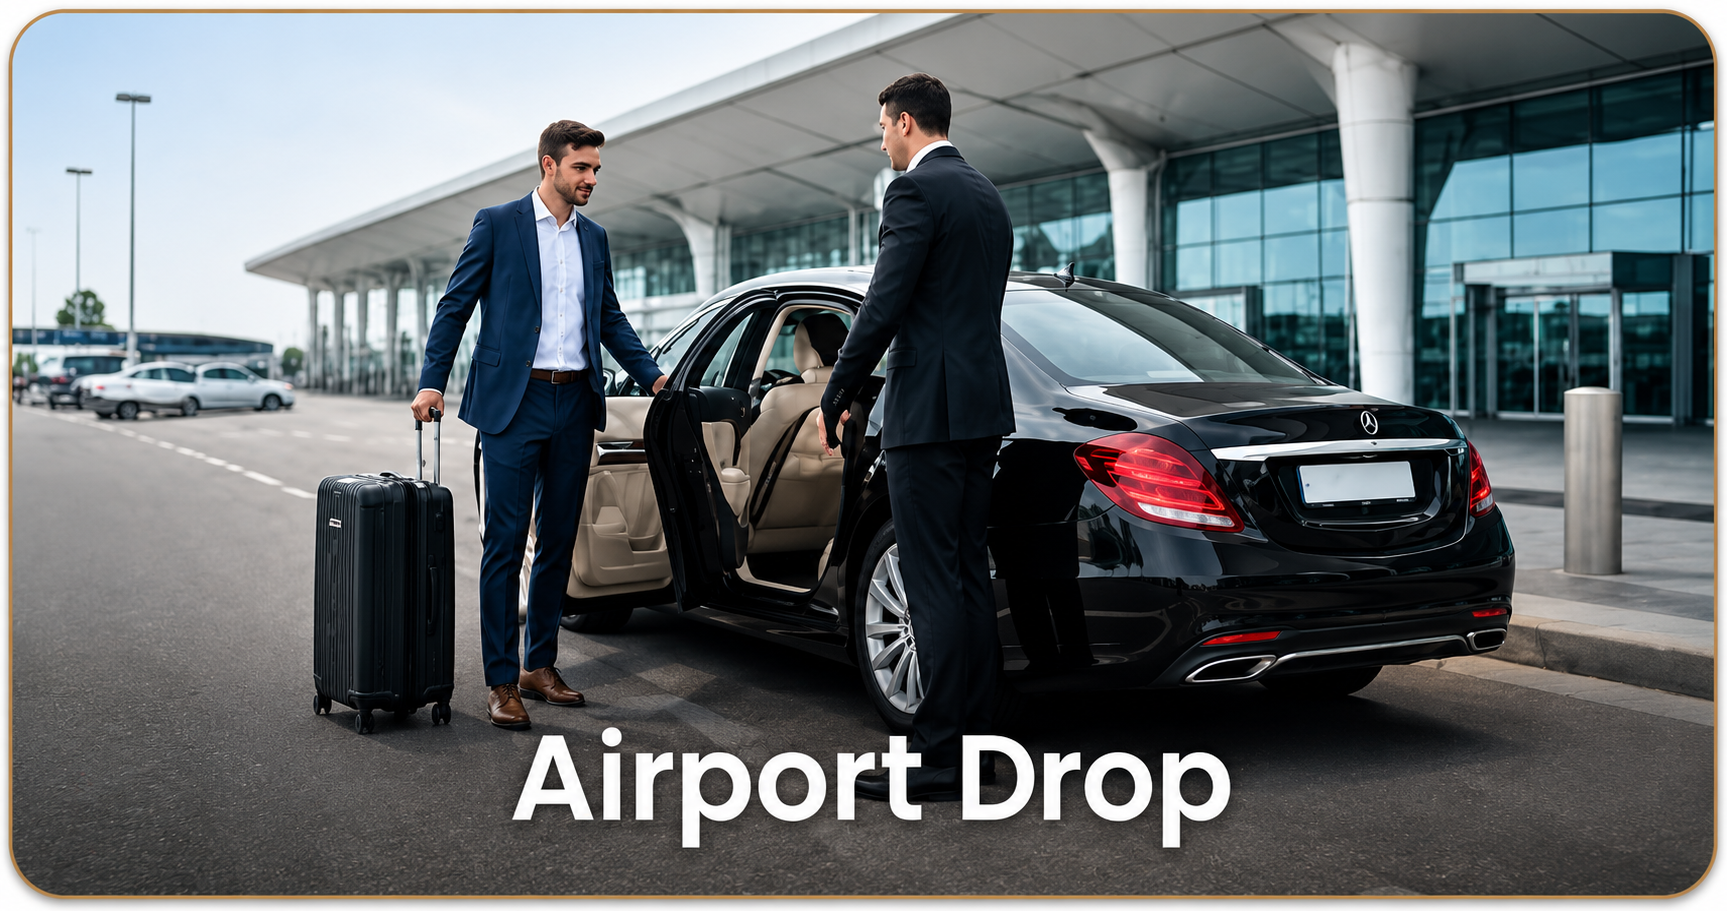
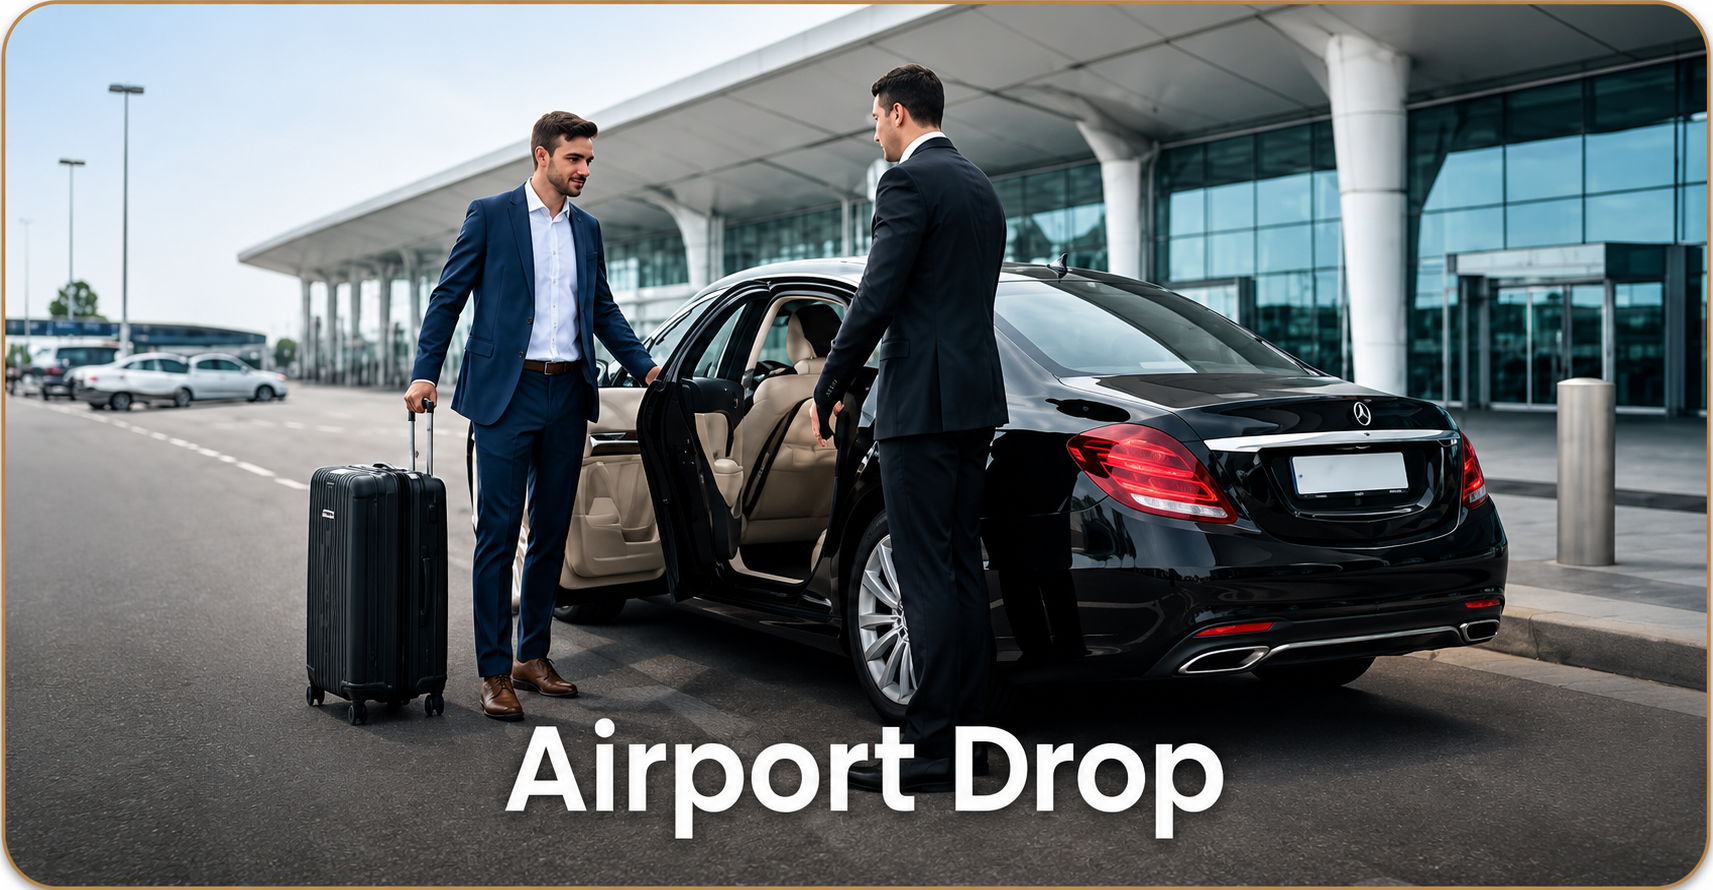
Update the whole website

diff --git a/Satya Tourists Corporate Cabs.dc.html b/Satya Tourists Corporate Cabs.dc.html
@@ -136,9 +136,8 @@
   </sc-if>
 </header>
 
-<section id="top" data-screen-label="Page banner" style="position:relative;background:linear-gradient(180deg,rgba(15,16,20,0.72),rgba(15,16,20,0.8)),url('images/corporate-transport.png');background-size:cover;background-position:center 45%;padding:clamp(56px,7vw,90px) clamp(18px,2.2vw,32px) clamp(44px,5.5vw,70px);text-align:center">
+<section id="top" data-screen-label="Page banner" style="position:relative;background:linear-gradient(180deg,rgba(15,16,20,0.72),rgba(15,16,20,0.8)),url('images/corporate-transport.png');background-size:cover;background-position:center 45%;padding:clamp(110px,13vw,170px) clamp(18px,2.2vw,32px) clamp(95px,11vw,145px);text-align:center">
   <h1 style="font-family:'Poppins',sans-serif;color:#fff;font-size:clamp(28px,4vw,46px);font-weight:800;margin-bottom:14px">Corporate Cabs Rental</h1>
-  <p style="color:#e9ddc8;font-size:14.5px;font-weight:600"><a href="index.html" style="color:#fff">Home</a> &nbsp;/&nbsp; Corporate Cabs</p>
 </section>
 
 <section data-screen-label="Corporate fleet" style="background:linear-gradient(180deg,#EAF4FF 0%,#EFF8F1 100%);padding:clamp(44px,5.5vw,64px) clamp(18px,2.2vw,32px) clamp(48px,6vw,72px)">

diff --git a/Satya Tourists Airport Taxi.dc.html b/Satya Tourists Airport Taxi.dc.html
@@ -146,9 +146,8 @@
   </sc-if>
 </header>
 
-<section id="top" data-screen-label="Page banner" style="position:relative;background:linear-gradient(180deg,rgba(15,16,20,0.72),rgba(15,16,20,0.8)),url('images/airport.png');background-size:cover;background-position:center 40%;padding:clamp(56px,7vw,90px) clamp(18px,2.2vw,32px) clamp(44px,5.5vw,70px);text-align:center">
+<section id="top" data-screen-label="Page banner" style="position:relative;background:linear-gradient(180deg,rgba(15,16,20,0.72),rgba(15,16,20,0.8)),url('images/airport.png');background-size:cover;background-position:center 40%;padding:clamp(110px,13vw,170px) clamp(18px,2.2vw,32px) clamp(95px,11vw,145px);text-align:center">
   <h1 style="font-family:'Poppins',sans-serif;color:#fff;font-size:clamp(28px,4vw,46px);font-weight:800;margin-bottom:14px">Airport Taxi Service in Bengaluru</h1>
-  <p style="color:#e9ddc8;font-size:14.5px;font-weight:600"><a href="index.html" style="color:#fff">Home</a> &nbsp;/&nbsp; Airport Taxi</p>
 </section>
 
 <section data-screen-label="Airport packages" style="background:linear-gradient(180deg,#EAF4FF 0%,#EFF8F1 100%);padding:clamp(44px,5.5vw,64px) clamp(18px,2.2vw,32px) clamp(48px,6vw,72px)">

diff --git a/Satya Tourists Local Taxi.dc.html b/Satya Tourists Local Taxi.dc.html
@@ -146,9 +146,8 @@
   </sc-if>
 </header>
 
-<section id="top" data-screen-label="Page banner" style="position:relative;background:linear-gradient(180deg,rgba(15,16,20,0.72),rgba(15,16,20,0.8)),url('images/local.png');background-size:cover;background-position:center 40%;padding:clamp(56px,7vw,90px) clamp(18px,2.2vw,32px) clamp(44px,5.5vw,70px);text-align:center">
+<section id="top" data-screen-label="Page banner" style="position:relative;background:linear-gradient(180deg,rgba(15,16,20,0.72),rgba(15,16,20,0.8)),url('images/local.png');background-size:cover;background-position:center 40%;padding:clamp(110px,13vw,170px) clamp(18px,2.2vw,32px) clamp(95px,11vw,145px);text-align:center">
   <h1 style="font-family:'Poppins',sans-serif;color:#fff;font-size:clamp(28px,4vw,46px);font-weight:800;margin-bottom:14px">Local Taxi Service in Bengaluru</h1>
-  <p style="color:#e9ddc8;font-size:14.5px;font-weight:600"><a href="index.html" style="color:#fff">Home</a> &nbsp;/&nbsp; Local Taxi</p>
 </section>
 
 <section data-screen-label="Local packages" style="background:linear-gradient(180deg,#EAF4FF 0%,#EFF8F1 100%);padding:clamp(44px,5.5vw,64px) clamp(18px,2.2vw,32px) clamp(48px,6vw,72px)">

diff --git a/Satya Tourists Outstation.dc.html b/Satya Tourists Outstation.dc.html
@@ -137,9 +137,8 @@
   </sc-if>
 </header>
 
-<section id="top" data-screen-label="Page banner" style="position:relative;background:linear-gradient(180deg,rgba(15,16,20,0.72),rgba(15,16,20,0.8)),url('images/outstation.png');background-size:cover;background-position:center 40%;padding:clamp(56px,7vw,90px) clamp(18px,2.2vw,32px) clamp(44px,5.5vw,70px);text-align:center">
+<section id="top" data-screen-label="Page banner" style="position:relative;background:linear-gradient(180deg,rgba(15,16,20,0.72),rgba(15,16,20,0.8)),url('images/outstation.png');background-size:cover;background-position:center 40%;padding:clamp(110px,13vw,170px) clamp(18px,2.2vw,32px) clamp(95px,11vw,145px);text-align:center">
   <h1 style="font-family:'Poppins',sans-serif;color:#fff;font-size:clamp(28px,4vw,46px);font-weight:800;margin-bottom:14px">Outstation Taxi Service in Bengaluru</h1>
-  <p style="color:#e9ddc8;font-size:14.5px;font-weight:600"><a href="index.html" style="color:#fff">Home</a> &nbsp;/&nbsp; Outstation Taxi</p>
 </section>
 
 <section data-screen-label="Intro" style="max-width:980px;margin:0 auto;padding:clamp(40px,5vw,60px) clamp(18px,2.2vw,32px) 20px;text-align:center">

diff --git a/Satya Tourists Contact.dc.html b/Satya Tourists Contact.dc.html
@@ -75,9 +75,8 @@
   </sc-if>
 </header>
 
-<section id="top" data-screen-label="Page banner" style="position:relative;background:linear-gradient(180deg,rgba(15,16,20,0.72),rgba(15,16,20,0.8)),url('images/hero.png');background-size:cover;background-position:center 40%;padding:clamp(56px,7vw,90px) clamp(18px,2.2vw,32px) clamp(44px,5.5vw,70px);text-align:center">
+<section id="top" data-screen-label="Page banner" style="position:relative;background:linear-gradient(180deg,rgba(15,16,20,0.72),rgba(15,16,20,0.8)),url('images/hero.png');background-size:cover;background-position:center 40%;padding:clamp(110px,13vw,170px) clamp(18px,2.2vw,32px) clamp(95px,11vw,145px);text-align:center">
   <h1 style="font-family:'Poppins',sans-serif;color:#fff;font-size:clamp(28px,4vw,46px);font-weight:800;margin-bottom:14px">Contact Satya Tourists</h1>
-  <p style="color:#e9ddc8;font-size:14.5px;font-weight:600"><a href="index.html" style="color:#fff">Home</a> &nbsp;/&nbsp; Contact</p>
 </section>
 
 <section data-screen-label="Contact details" style="max-width:1240px;margin:0 auto;padding:clamp(40px,5vw,60px) clamp(18px,2.2vw,32px) clamp(20px,2.5vw,30px)">

diff --git a/Satya Tourists Our Fleet.dc.html b/Satya Tourists Our Fleet.dc.html
@@ -148,9 +148,8 @@
   </sc-if>
 </header>
 
-<section id="top" data-screen-label="Page banner" style="position:relative;background:linear-gradient(180deg,rgba(15,16,20,0.72),rgba(15,16,20,0.8)),url('images/our-fleet.png');background-size:cover;background-position:center 55%;padding:clamp(56px,7vw,90px) clamp(18px,2.2vw,32px) clamp(44px,5.5vw,70px);text-align:center">
+<section id="top" data-screen-label="Page banner" style="position:relative;background:linear-gradient(180deg,rgba(15,16,20,0.72),rgba(15,16,20,0.8)),url('images/our-fleet.png');background-size:cover;background-position:center 55%;padding:clamp(110px,13vw,170px) clamp(18px,2.2vw,32px) clamp(95px,11vw,145px);text-align:center">
   <h1 style="font-family:'Poppins',sans-serif;color:#fff;font-size:clamp(28px,4vw,46px);font-weight:800;margin-bottom:14px">Our Fleet</h1>
-  <p style="color:#e9ddc8;font-size:14.5px;font-weight:600"><a href="index.html" style="color:#fff">Home</a> &nbsp;/&nbsp; Our Fleet</p>
 </section>
 
 <section data-screen-label="Intro" style="max-width:980px;margin:0 auto;padding:clamp(40px,5vw,60px) clamp(18px,2.2vw,32px) 10px;text-align:center">
